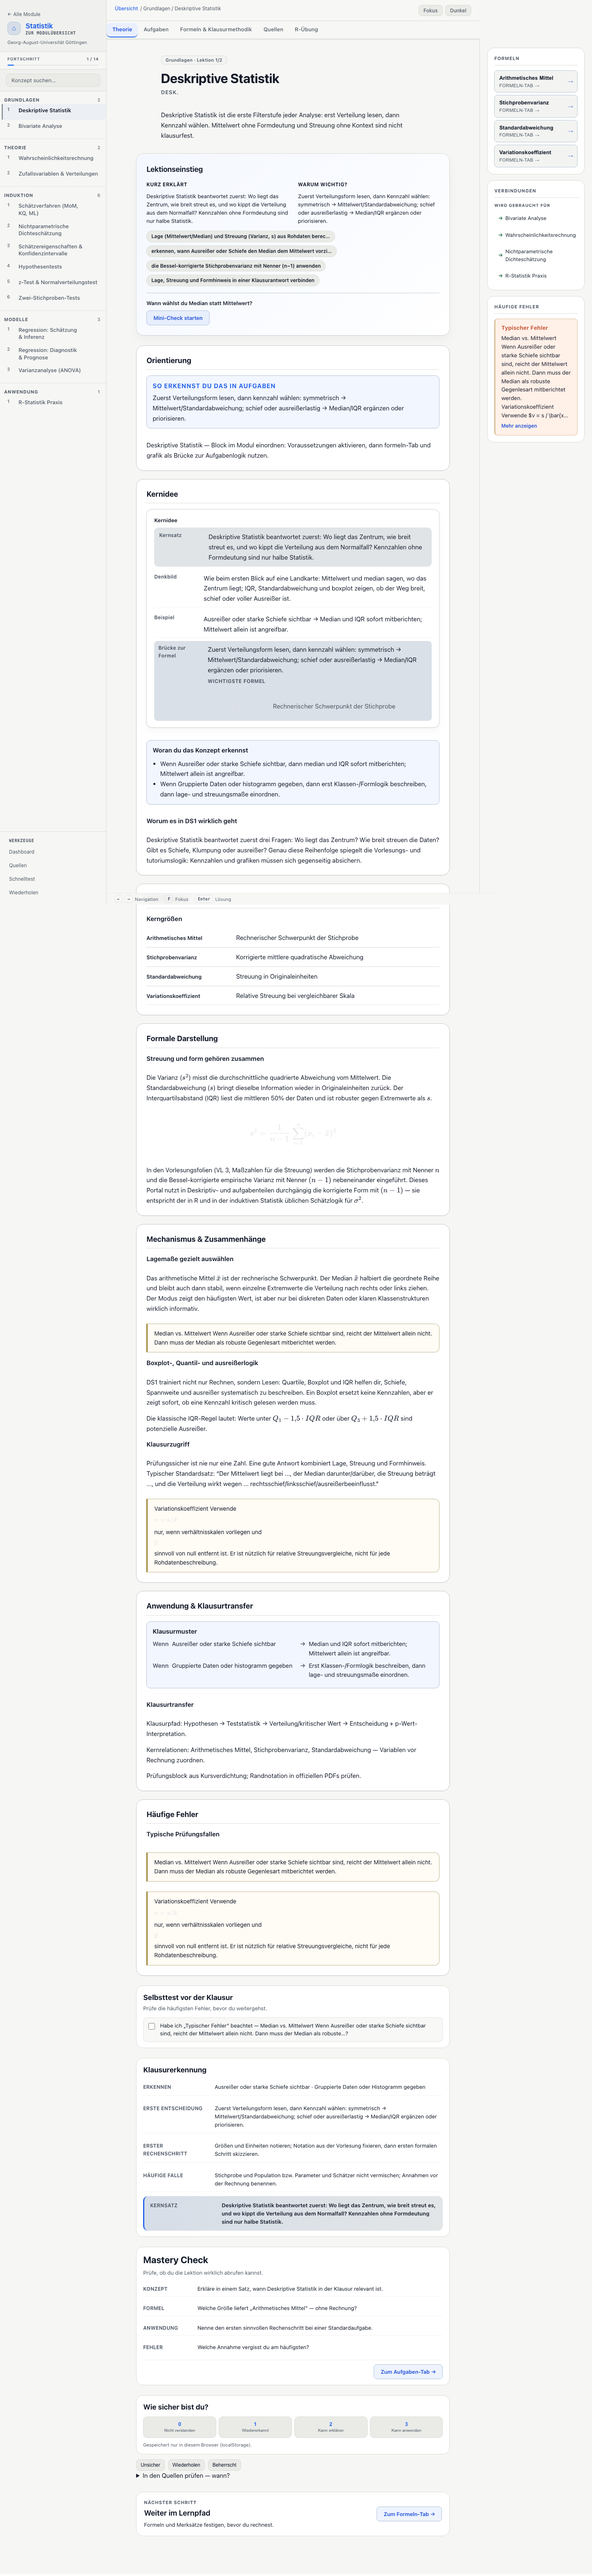
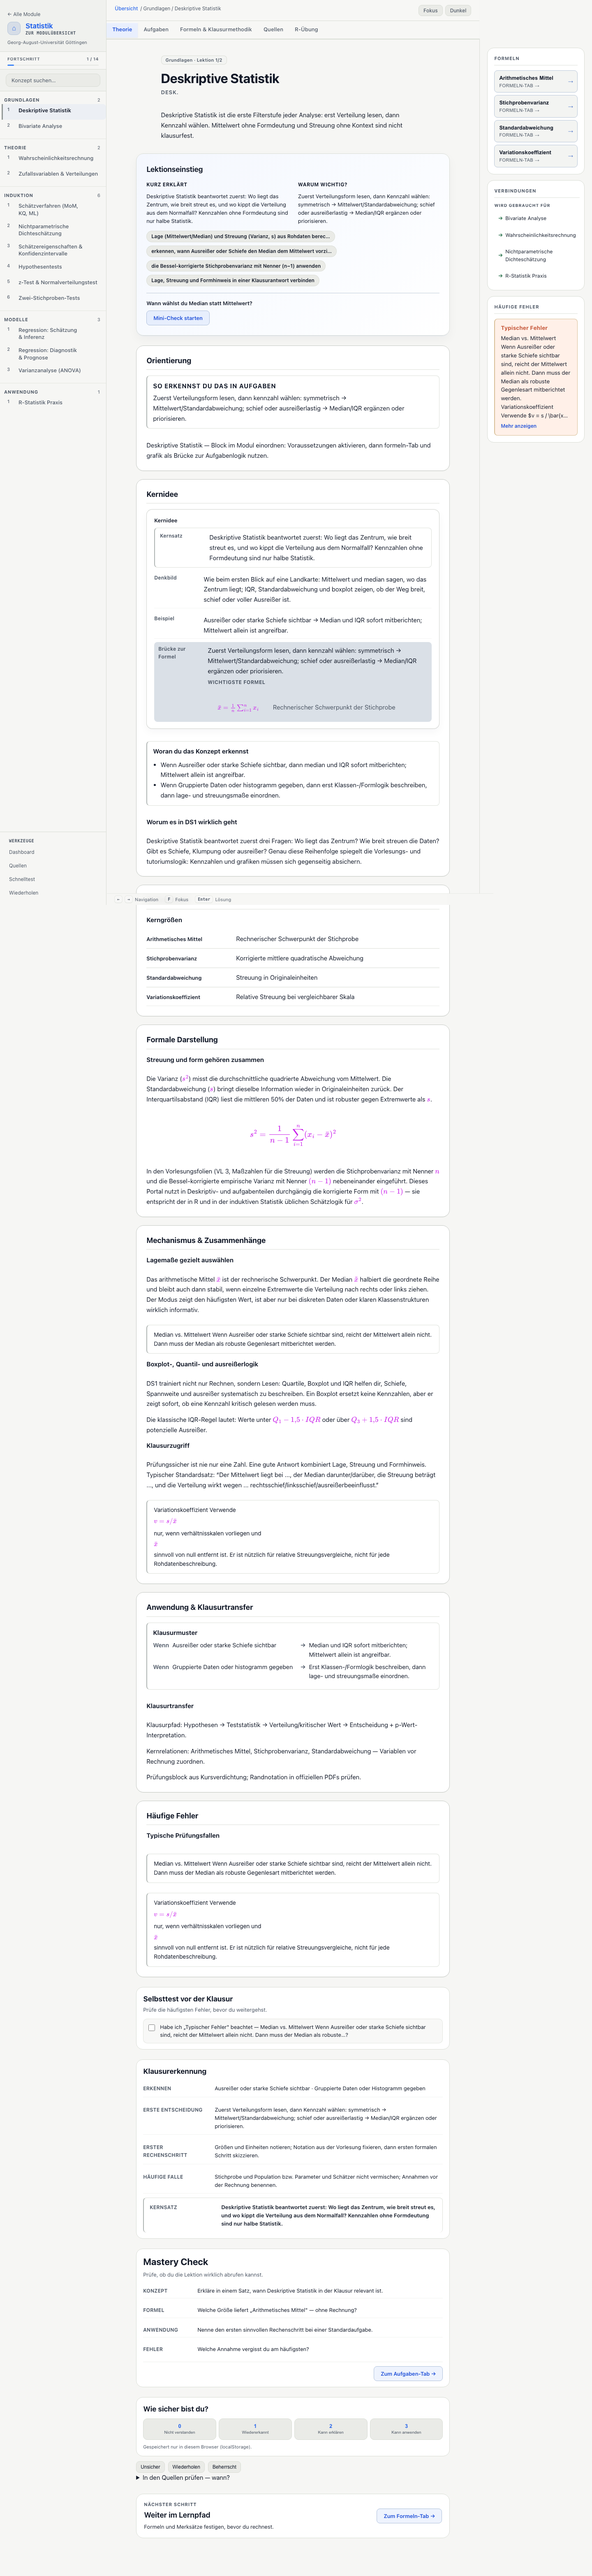
Fix design-closure screenshot defects
Strengthen design-closure CSS specificity for neutral headings, thin-border callouts, calm sidebar/tabs, and neutral math. Cap Aufgabe/R-practice actions at three visible controls and re-capture audit screenshots.

diff --git a/assets/css/premium-refinement.css b/assets/css/premium-refinement.css
@@ -11130,3 +11130,191 @@ body:not(.light-mode) #rightPanel #rpMistakes .rp-mistake--rail {
   background: color-mix(in srgb, var(--surface2) 50%, var(--card) 50%);
   border-color: color-mix(in srgb, var(--border) 88%, transparent);
 }
+
+/* ============================================================
+   DESIGN CLOSURE PASS 2 — specificity fixes (subtraction)
+   Earlier passes used equal/higher-specificity accent rules;
+   these selectors win at the end of the cascade.
+   ============================================================ */
+
+/* Headings & labels — neutral, not faux-links */
+#content .section-block > h3,
+#content .theory-recipe-section > h3,
+#content .theory-recipe-heading,
+#content .formula-tab-section > h3,
+#content .graph-panel-title,
+#content .practice-section-header,
+#content .practice-surface-kicker,
+#content .theory-intuition-bridge-kicker,
+#content .theory-subsection-title,
+.mikro1-practice > .practice-section-header {
+  color: var(--text);
+}
+
+#content .section-block > h3::before,
+#content .graph-panel-title::before {
+  background: color-mix(in srgb, var(--border) 70%, var(--muted) 30%);
+}
+
+#content .practice-section-header {
+  display: grid;
+  grid-template-columns: minmax(0, 1fr);
+  gap: 0;
+  color: var(--text);
+  font-weight: 700;
+  letter-spacing: -0.01em;
+  text-transform: none;
+}
+
+#content .practice-section-header::before,
+#content .practice-section-header::after {
+  display: none;
+}
+
+#content .problem-card .prob-num,
+#content .exam-drill-card .prob-num,
+.exam-drill-card .prob-num,
+.problem-card .prob-num {
+  color: var(--muted);
+}
+
+#content .graph-interpretation-label,
+#content .graph-insight-label,
+#content .graph-info .gi-label,
+#content .graph-info strong {
+  color: var(--muted);
+}
+
+#content .solution-block .step-num {
+  background: var(--surface2);
+  color: var(--muted);
+  border: 1px solid color-mix(in srgb, var(--border) 85%, transparent);
+}
+
+/* Colored bands → thin borders only */
+#content .theory-intuition-embed,
+#content .practice-surface-intro,
+#content .practice-surface-column,
+#content .learning-trap.warn-box--theory-inset,
+#content .learning-trap.warning-card.warn-box--theory-inset,
+#content .learning-compare,
+#content .learning-definition,
+#content .theory-recipe-section--definitionen .theory-recipe-body > p,
+#content .warn-box.warning-card,
+#content .warning-card,
+#content .warning-card.warning-card--task,
+#content .theory-recipe-section--mechanismus .theory-klausur-highlight,
+.exam-recognition__row--core,
+.concept-anchor__row--core,
+#rightPanel .rp-mistake--rail,
+#rightPanel #rpMistakes .rp-mistake--rail,
+#rightPanel .warning-card {
+  background: transparent;
+  box-shadow: none;
+  border: 1px solid color-mix(in srgb, var(--border) 88%, transparent);
+  border-left: 2px solid color-mix(in srgb, var(--border) 70%, var(--muted) 30%);
+  border-radius: var(--r-sm, 8px);
+}
+
+#content .learning-trap .warning-card-title,
+#content .learning-trap strong,
+#rightPanel .rp-mistake-title {
+  color: var(--text);
+  font-weight: 650;
+}
+
+#content .learning-trap .warning-card-body,
+#rightPanel .rp-mistake-body {
+  color: color-mix(in srgb, var(--text) 88%, var(--muted) 12%);
+}
+
+/* Sidebar — calm active state, no accent halos */
+#sidebar .nav-item.active {
+  background: color-mix(in srgb, var(--surface2) 70%, transparent);
+  border-left: 3px solid color-mix(in srgb, var(--text) 35%, var(--border) 65%);
+}
+
+#sidebar .nav-item.active .num {
+  color: var(--muted);
+  opacity: 0.9;
+}
+
+/* Tabs — underline only, not pills */
+#tabRow.tab-row .tab-btn {
+  border-radius: 0;
+  box-shadow: none;
+}
+
+#tabRow.tab-row .tab-btn.active {
+  color: var(--text);
+  font-weight: 600;
+  background: color-mix(in srgb, var(--accent-soft) 65%, transparent);
+  border-bottom: 2px solid var(--accent);
+  border-color: transparent;
+  box-shadow: none;
+}
+
+#tabRow.tab-row .tab-btn.active::after {
+  display: none;
+}
+
+#tabRow.tab-row .tab-btn.active[data-tab="r"],
+#tabRow.tab-row .tab-btn.active[data-tab="r-practice"],
+#tabRow.tab-row .tab-btn.active[data-tab="r-anwendung"] {
+  color: var(--accent-strong, var(--accent));
+  background: color-mix(in srgb, var(--accent-soft) 80%, transparent);
+  border-bottom-color: var(--accent);
+}
+
+/* R practice — reuse capped prob-actions row */
+.r-practice-editor-card .prob-actions {
+  margin-top: 12px;
+}
+
+.r-practice-editor-card .prob-actions__overflow-inner .r-inline-toggle,
+.r-practice-editor-card .prob-actions__overflow-inner .btn-ghost {
+  font-size: inherit;
+}
+
+.r-orient-kicker,
+.r-orient-panel-kicker,
+.r-output-interp-kicker,
+.r-lesson-flow .r-orient-panel-kicker {
+  color: var(--muted);
+}
+
+#content .intuition-text strong,
+#content .fe-context-block strong,
+#content .prob-text strong.learning-key,
+#content .prob-text strong {
+  color: var(--text);
+  font-weight: 600;
+}
+
+#content .info-card {
+  background: var(--card);
+}
+
+#rightPanel .rp-f-eq,
+#rightPanel .rp-formula .rp-f-eq {
+  overflow-x: auto;
+  max-width: 100%;
+  -webkit-overflow-scrolling: touch;
+}
+
+/* ============================================================
+   DESIGN CLOSURE — neutral rendered math (no global magenta/blue)
+   ============================================================ */
+
+#content mjx-container,
+#content mjx-container *,
+#rightPanel mjx-container,
+#rightPanel mjx-container * {
+  color: var(--math-ink, color-mix(in srgb, var(--text) 90%, var(--muted) 10%));
+}
+
+body:not(.light-mode):not([data-page="landing"]) {
+  --math-ink: color-mix(in srgb, var(--text) 90%, var(--muted) 10%);
+  --math-ink-deep: color-mix(in srgb, var(--text) 84%, var(--muted) 16%);
+  --math-soft: color-mix(in srgb, var(--text) 6%, transparent);
+}

diff --git a/assets/js/portal-core/features/rPractice.js b/assets/js/portal-core/features/rPractice.js
@@ -1,3 +1,5 @@
+import { wrapCappedActionButtons } from '../pedagogy/learnerPedagogy.js';
+
 const WEBR_MODULE_URL = 'https://webr.r-wasm.org/latest/webr.mjs';
 const STORAGE_PREFIX = 'portal_r_practice_v1';
 const WEBR_FIRST_RUN_KEY = 'portal_r_webr_first_run_hint_v1';
@@ -1530,6 +1532,15 @@ function renderHighlightEditor(config) {
   const runLabel = config.runtimeMode === 'guided' ? 'Nicht nötig' : 'Ausführen';
   const targetLineNo = config.coreLineAnchor?.lineNo || '';
 
+  const actionButtons = wrapCappedActionButtons([
+    `<button type="button" class="btn btn-primary" data-r-action="run"${runDisabled} aria-label="Code ausführen">${escapeHtml(runLabel)}</button>`,
+    `<button type="button" class="btn secondary" data-r-action="show-tip" aria-label="Tipp anzeigen">Tipp anzeigen</button>`,
+    `<button type="button" class="btn secondary" data-r-action="check-solution" aria-label="Lösung prüfen">Lösung prüfen</button>`,
+    `<button type="button" class="btn tertiary" data-r-action="reset" aria-label="Code zurücksetzen">Zurücksetzen</button>`,
+    `<button type="button" class="r-inline-toggle r-inline-toggle--low" data-r-action="toggle-solution" aria-label="Musterlösung anzeigen">Lösung anzeigen</button>`,
+    `<button type="button" class="btn-ghost" data-r-action="insert-solution" aria-label="Lösung in Editor einsetzen">Lösung einsetzen</button>`
+  ]);
+
   return `<div class="r-practice-editor-card">
   <div class="r-practice-toolbar">
     <div class="r-practice-toolbar-title" id="r-editor-label-${escapeHtml(config.blockId)}">Code bearbeiten</div>
@@ -1538,16 +1549,7 @@ function renderHighlightEditor(config) {
     <div class="r-highlight-display" data-r-highlight aria-hidden="true"></div>
     <textarea class="r-practice-editor r-hl-editor" data-r-editor spellcheck="false" aria-labelledby="r-editor-label-${escapeHtml(config.blockId)}" rows="12">${escapeHtml(config.starterCode)}</textarea>
   </div>
-  <div class="r-practice-actions r-practice-actions--staged">
-    <button type="button" class="btn btn-primary" data-r-action="run"${runDisabled} aria-label="Code ausführen">${escapeHtml(runLabel)}</button>
-    <button type="button" class="btn secondary" data-r-action="show-tip" aria-label="Tipp anzeigen">Tipp anzeigen</button>
-    <button type="button" class="btn secondary" data-r-action="check-solution" aria-label="Lösung prüfen">Lösung prüfen</button>
-    <button type="button" class="btn tertiary" data-r-action="reset" aria-label="Code zurücksetzen">Zurücksetzen</button>
-  </div>
-  <div class="r-practice-actions-secondary">
-    <button type="button" class="r-inline-toggle r-inline-toggle--low" data-r-action="toggle-solution" aria-label="Musterlösung anzeigen">Lösung anzeigen</button>
-    <button type="button" class="btn-ghost" data-r-action="insert-solution" aria-label="Lösung in Editor einsetzen">Lösung einsetzen</button>
-  </div>
+  ${actionButtons}
   <div class="r-practice-tip" data-r-tip hidden>
     <p><strong>Tipp:</strong> ${escapeHtml(config.changeFocus)}</p>
     <p class="r-practice-tip-sub">${escapeHtml(config.coreCue || '')}</p>

diff --git a/assets/js/portal-core/pedagogy/learnerPedagogy.js b/assets/js/portal-core/pedagogy/learnerPedagogy.js
@@ -55,8 +55,10 @@ export function wrapCappedActionButtons(buttonFragments, maxVisible = MAX_VISIBL
   if (buttons.length <= maxVisible) {
     return `<div class="prob-actions prob-actions--staged">\n${buttons.join("\n")}\n</div>`;
   }
-  const primary = buttons.slice(0, maxVisible);
-  const overflow = buttons.slice(maxVisible);
+  // Reserve one slot for the quiet "Mehr" disclosure — max 3 visible controls total.
+  const primaryCount = Math.max(1, maxVisible - 1);
+  const primary = buttons.slice(0, primaryCount);
+  const overflow = buttons.slice(primaryCount);
   return `<div class="prob-actions prob-actions--staged prob-actions--capped">
 ${primary.join("\n")}
 <details class="prob-actions__overflow">

diff --git a/assets/css/portal.css b/assets/css/portal.css
@@ -124,11 +124,11 @@ html { scroll-behavior: smooth; }
 }
 
 .onboarding-list li::before {
-  content: "→";
+  content: "·";
   position: absolute;
   left: 0;
-  color: var(--accent);
-  font-weight: bold;
+  color: var(--muted);
+  font-weight: 700;
 }
 
 /* ── Header ────────────────────────────────────────────────── */

diff --git a/assets/js/portal-core/utils/studentFacingText.js b/assets/js/portal-core/utils/studentFacingText.js
@@ -123,6 +123,8 @@ export function studentizeTheoryHtml(html, entry = null) {
   let s = repairLatexInHtml(html);
   if (!s) return s;
 
+  s = s.replace(/&#36;|&amp;#36;/g, "$");
+
   if (entry && typeof entry === "object") {
     s = prepareTheoryHtmlForStudent(s, entry);
   } else if (s.includes("[object Object]")) {
